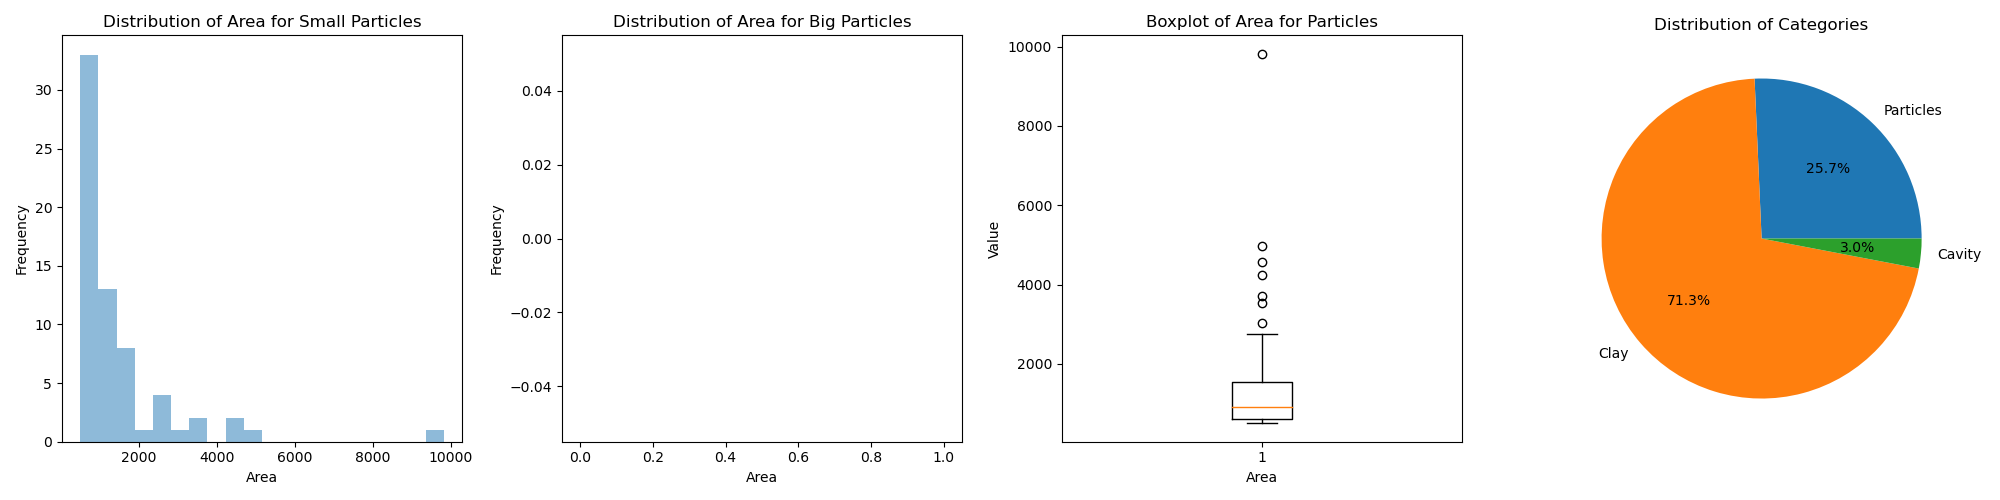
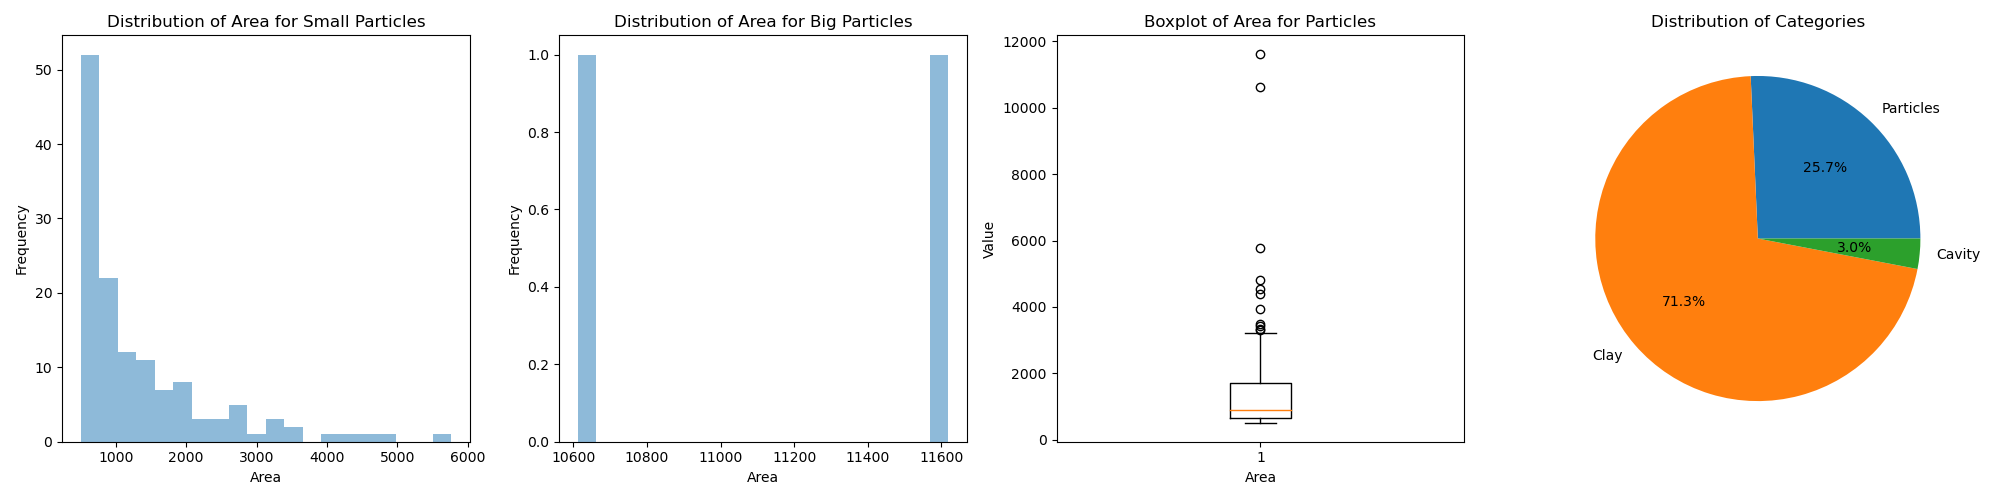
updated the filter

diff --git a/test.py b/test.py
@@ -26,7 +26,7 @@ args = {"input_dir": input_directory,
         "model_path": model_path}
 
 # run segmentation script
-result = ij.py.run_script("BeanShell", script, args)
+# result = ij.py.run_script("BeanShell", script, args)
 
 print("-------- Segmentation Complete --------")
 print("Start Analysis")
@@ -39,8 +39,7 @@ with open(script_path, 'r') as raw_script:
 # process the image, then calculate the data
 args = {"input_dir": segment_directory,
         "output_dir": analysis_directory,
-        "dilation": 2,
-        "erosion": 3}
+        "noise_rad": 7.0}
 
 result = ij.py.run_script("BeanShell", script, args)
 

diff --git a/README.md b/README.md
@@ -8,6 +8,7 @@
 ├── raw_input                # input directory  
 ├── segment_output           # segmentation output directory  
 ├── threshold_output         # final output directory 
+├── graph_output             # charts
 ├── \*.bsh                   # BeanShell scripts 
 ├── Fiji.app                 # ImageJ Content (Available from https://imagej.net/software/fiji/downloads, a lower version eg. 3.24 is required) 
 │    ├── \*.model            # Trained segmentation model to be loaded 
